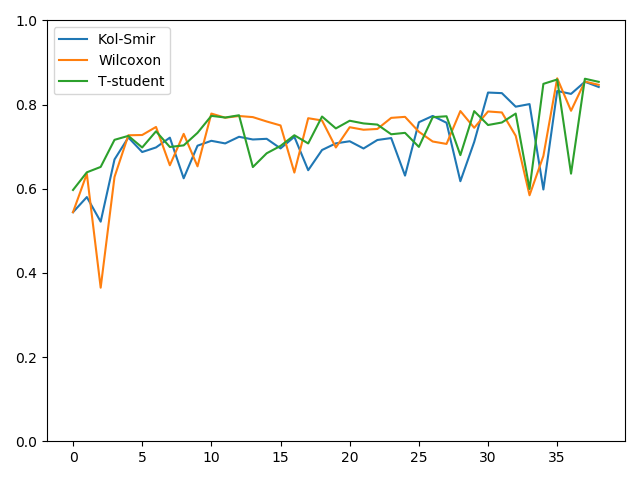
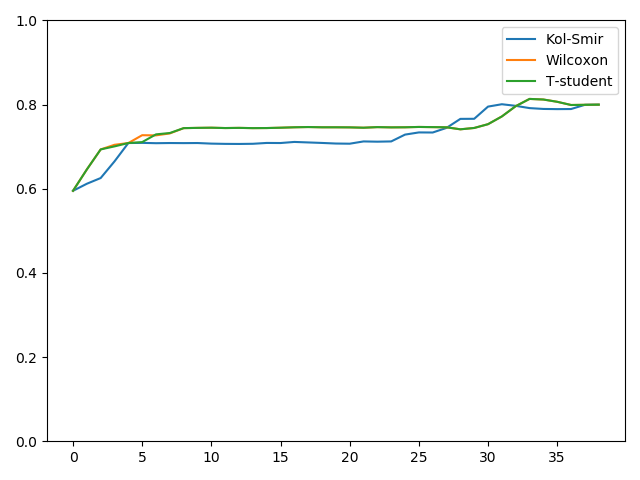
minor changes, wip

diff --git a/main.py b/main.py
@@ -21,6 +21,9 @@ number_of_neighbors = 5
 #for cross validation
 number_of_splits = 10
 
+# setting mlp objects
+neurons = [20]
+
 # for .arff datasets
 # data = arff.loadarff('dataset.arff')
 # df = pd.DataFrame(data[0])
@@ -38,10 +41,10 @@ print(y.shape)
 print(X.shape)
 
 # Ranks
-from scipy.stats import ks_2samp, wilcoxon, ttest_ind   #mannwhitneyu, friedmanchisquare
+from scipy.stats import ks_2samp, wilcoxon, ttest_ind
 p = []
 # Kolmogorow-Smirnow
-for i in range(X.shape[1]): #shape - ilość atrybutów(kolumn)
+for i in range(X.shape[1]):
     p.append(ks_2samp(X[:,i],y).pvalue)
 p = np.array(p)
 ranks = np.argsort(-p)
@@ -49,7 +52,7 @@ ranked_X = X[:, ranks] # kolumny atrybutów ułożone według rankingu
 
 # Wilcoxon
 p = []
-for i in range(X.shape[1]): #shape - ilość atrybutów(kolumn)
+for i in range(X.shape[1]):
     p.append(wilcoxon(X[:,i],y).pvalue)
 p = np.array(p)
 ranks = np.argsort(-p)
@@ -57,7 +60,7 @@ wilcoxon_X = X[:, ranks]
 
 # t-Student
 p = []
-for i in range(X.shape[1]): #shape - ilość atrybutów(kolumn)
+for i in range(X.shape[1]):
     p.append(ttest_ind(X[:,i],y).pvalue)
 p = np.array(p)
 ranks = np.argsort(-p)
@@ -67,29 +70,29 @@ number_of_attr = ranked_X.shape[1]
 
 # Cross validation
 skf = StratifiedKFold(n_splits=number_of_splits) #podobno 10 jest najbardziej optymalną wartością
-scores = np.zeros((number_of_splits, number_of_attr-1, 3)) # 3d array
+scores = np.zeros((number_of_splits, number_of_attr-1, 3))
 for f, (train, test) in enumerate(skf.split(ranked_X, y)):
     for i in range(number_of_attr-1):
         # clf_r = KNeighborsClassifier(n_neighbors=number_of_neighbors)
-        # clf_r = GaussianNB()
+        clf_r = GaussianNB()
         # clf_r = SVC(gamma="scale")
-        clf_r = MLPClassifier(solver='lbfgs', alpha=1e-5, hidden_layer_sizes=(5, 2), random_state=1)
+        # clf_r = MLPClassifier(solver='sgd', hidden_layer_sizes=neurons[0], activation='relu', max_iter = 200, momentum=1)
         clf_r.fit(ranked_X[train,:i+2], y[train])
 
         score_r = clf_r.score(ranked_X[test,:i+2], y[test])
 
         # clf_wilc = KNeighborsClassifier(n_neighbors=number_of_neighbors)
-        # clf_wilc = GaussianNB()
+        clf_wilc = GaussianNB()
         # clf_wilc = SVC(gamma="scale")
-        clf_wilc = MLPClassifier(solver='lbfgs', alpha=1e-5, hidden_layer_sizes=(5, 2), random_state=1)
+        # clf_wilc = MLPClassifier(solver='sgd', hidden_layer_sizes=neurons[0], activation='relu', max_iter = 200, momentum=1)
         clf_wilc.fit(wilcoxon_X[train,:i+2], y[train])
 
         score_wilc = clf_wilc.score(wilcoxon_X[test,:i+2], y[test])
 
         # clf_ttest = KNeighborsClassifier(n_neighbors=number_of_neighbors)
-        # clf_ttest = GaussianNB()
+        clf_ttest = GaussianNB()
         # clf_ttest = SVC(gamma="scale")
-        clf_ttest = MLPClassifier(solver='lbfgs', alpha=1e-5, hidden_layer_sizes=(5, 2), random_state=1)
+        # clf_ttest = MLPClassifier(solver='sgd', hidden_layer_sizes=neurons[0], activation='relu', max_iter = 200, momentum=1)
         clf_ttest.fit(ttest_X[train,:i+2], y[train])
 
         score_ttest = clf_ttest.score(ttest_X[test,:i+2], y[test])
@@ -100,15 +103,39 @@ for f, (train, test) in enumerate(skf.split(ranked_X, y)):
         scores[f, i, 1] = score_wilc
         scores[f, i, 2] = score_ttest
 
+
 mean_scores = np.mean(scores, axis=0)
 print(mean_scores, mean_scores.shape)
 
-#
-plt.plot(range(number_of_attr-1), mean_scores[:,0], label='Kol-Smir')
-plt.plot(range(number_of_attr-1), mean_scores[:,1], label='Wilcoxon')
-plt.plot(range(number_of_attr-1), mean_scores[:,2], label='T-student')
+maxInColumns = np.amax(mean_scores, axis=0)
 
-plt.ylim(0,1)
-plt.legend()
-plt.tight_layout()
-plt.savefig("foo.png")
+print('Max value of every column: ', maxInColumns)
+
+index_1 = np.where(mean_scores == maxInColumns[0])
+listOfCordinates_1 = list(zip(index_1[0], index_1[1]))
+# travese over the list of cordinates
+for cord in listOfCordinates_1:
+    print("Index 1: ", cord)
+
+index_2 = np.where(mean_scores == maxInColumns[1])
+listOfCordinates_2 = list(zip(index_2[0], index_2[1]))
+# travese over the list of cordinates
+for cord in listOfCordinates_2:
+    print("Index 2: ", cord)
+
+index_3 = np.where(mean_scores == maxInColumns[2])
+listOfCordinates_3 = list(zip(index_3[0], index_3[1]))
+# travese over the list of cordinates
+for cord in listOfCordinates_3:
+    print("Index 3: ", cord)
+
+
+# Drawing plot
+# plt.plot(range(number_of_attr-1), mean_scores[:,0], label='Kol-Smir')
+# plt.plot(range(number_of_attr-1), mean_scores[:,1], label='Wilcoxon')
+# plt.plot(range(number_of_attr-1), mean_scores[:,2], label='T-student')
+#
+# plt.ylim(0,1)
+# plt.legend()
+# plt.tight_layout()
+# plt.savefig("foo.png")
